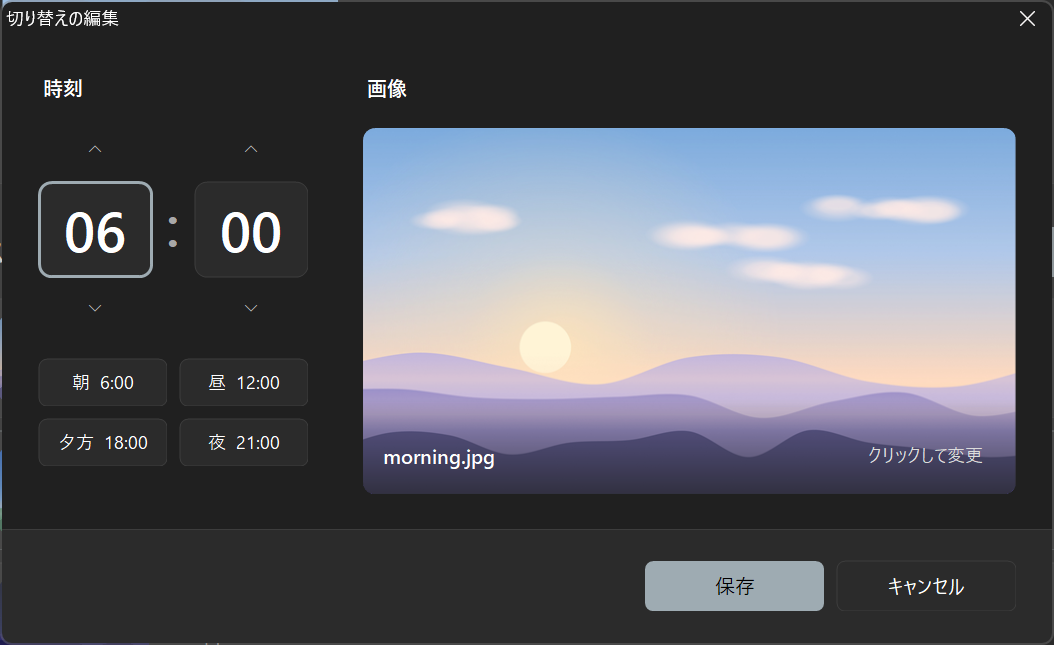
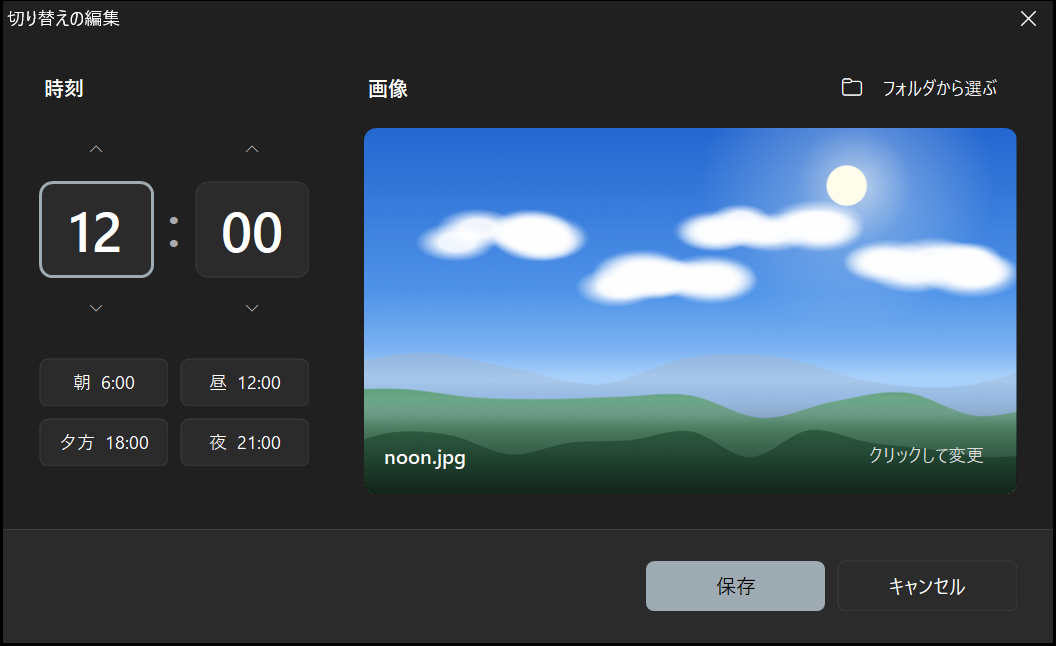
紹介ページのスクリーンショットを、背景が写り込まないものに差し替え
- main.png（14:12、昼の壁紙が表示中）と edit.png を撮り直したものに差し替え、画像の大きさの指定も更新
- sitemap の更新日を更新

diff --git a/site/index.html b/site/index.html
@@ -236,7 +236,7 @@
   </section>
 
   <div class="showcase wrap">
-    <img src="images/main.png" width="1174" height="1097" alt="壁紙スケジューラのメイン画面。6:00・12:00・19:00 に朝・昼・夜の壁紙を登録し、24 時間のタイムラインで表示している">
+    <img src="images/main.png" width="1192" height="1106" alt="壁紙スケジューラのメイン画面。6:00・12:00・19:00 に朝・昼・夜の壁紙を登録し、24 時間のタイムラインで表示している">
   </div>
 
   <section aria-labelledby="day-title">
@@ -318,7 +318,7 @@
             <p>時刻になると、壁紙が自動で切り替わります。「Windows の起動時に開始」をオンにすれば、PC を起動するたびに自動で動きます。</p>
           </li>
         </ol>
-        <img src="images/edit.png" width="1054" height="645" alt="時刻と画像を選ぶ画面。大きな時刻表示と、朝・昼・夕方・夜のショートカット、画像のプレビュー" loading="lazy">
+        <img src="images/edit.png" width="1056" height="646" alt="時刻と画像を選ぶ画面。大きな時刻表示と、朝・昼・夕方・夜のショートカット、画像のプレビュー" loading="lazy">
       </div>
     </div>
   </section>
